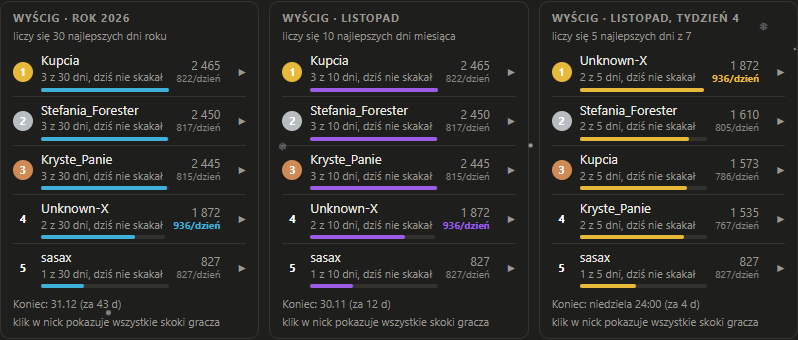
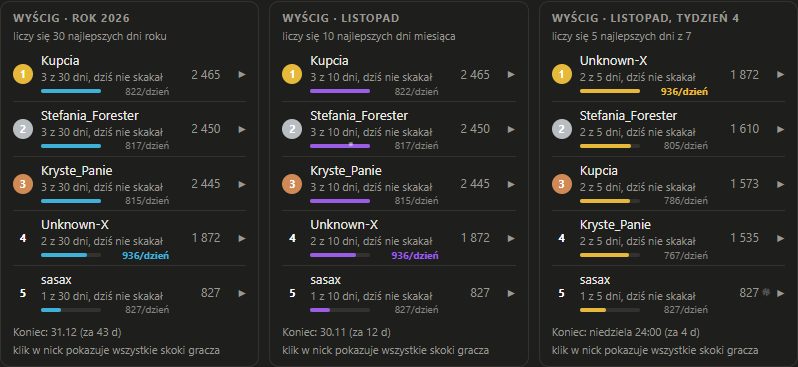
zasady i STAN: srednia na koncu paska, prod 14.9

diff --git a/docs/zasady_d2jsp.md b/docs/zasady_d2jsp.md
@@ -24,7 +24,7 @@ Jedyne miejsce tych ustaleń (14.11.2026). Plan wykonania: `docs/plan_d2jsp.md`.
 - Punkty skoku jak liczy gra (jak w prawdziwych skokach: 60 za skok na K, od K145 120, metry za K razy przelicznik, noty sędziów). Mamuty dają więcej punktów (ok. 1,5 raza) i tak zostaje (decyzja Mateusza; odrzucone: punkty Pucharu za miejsca, procent najlepszego wyniku, stałe przeliczniki).
 - Na skoczni liczą się 2 najlepsze skoki z 10, dodane (jak dwie serie). Wynik dnia = suma z 3 skoczni.
 - Tydzień: suma 5 najlepszych dni gracza. Miesiąc: suma 20 najlepszych dni. Rok (Mateusz 14.11): suma 200 najlepszych dni (od 14.11 liczony na serwerze z dni wszystkich miesięcy roku). Wszystkie trzy tabele rosną na bieżąco (po 3 dniach są zliczone 3 dni). Wyjątek startu gry (Mateusz 16.11): listopad 2026 (16 dni gry) liczy 10 najlepszych dni, rok 2026 (47 dni gry) liczy 30; tydzień 46 (15.11, jeden dzień) bez mistrza tygodnia, punkty zostają.
-- Średnia na dzień w wyścigach (Mateusz 18.11, szkic `proto/srednia-dnia`, „A z wyróżnieniem”): pod sumą mały napis „936/dzień”, liczony tylko z dni, które się liczą (suma podzielona przez mniejsze z: dni gracza, dni liczone w wyścigu). Najwyższa średnia w wyścigu pogrubiona w kolorze wyścigu, przy remisie każda. Kolejność zostaje według sumy (Mateusz 18.11 przyjął: przy kolejności według średniej opłacałoby się przestać grać po jednym dobrym dniu). W kartach mistrzów bez średniej. Na stronie głównej od 14.8.
+- Średnia na dzień w wyścigach (Mateusz 18.11, szkic `proto/srednia-dnia`, „A z wyróżnieniem”): mały napis „936/dzień” na końcu paska, pod sumą (od 14.9; wcześniej w kolumnie sumy, ucinał szarą linijkę przy średniej od 1000), liczony tylko z dni, które się liczą (suma podzielona przez mniejsze z: dni gracza, dni liczone w wyścigu). Najwyższa średnia w wyścigu pogrubiona w kolorze wyścigu, przy remisie każda. Kolejność zostaje według sumy (Mateusz 18.11 przyjął: przy kolejności według średniej opłacałoby się przestać grać po jednym dobrym dniu). W kartach mistrzów bez średniej. Na stronie głównej od 14.8.
 - Puchary Telemarka (Mateusz 14.11, szkic `proto/puchary-telemark`): skrzyżowane narty zamiast kielicha, kolory i znaki jak puchary za posty (tydzień złote, miesiąc fioletowe z gwiazdą, rok niebieskie z koroną). Jak przy postach: tytuł mistrza miesiąca Telemarka zamienia jedne złote narty tygodnia w płonące, z których sypią się iskry. Bez błękitnej gwiazdki i fioletowego nicku (te zostają tylko za posty, żeby było widać, za co są). Narty przy nicku stoją w rankingu postów za pucharami, nie w listach Telemarka (Mateusz 14.11). Legenda na dole strony dostaje narty. (na stronie testowej od 21.1, 14.11; Mateusz 14.11: korona roku na tarczy w skrzyżowaniu nart, płomień jak przy kielichu)
 - Na stronie (zastąpione 14.11 przez makietę C, punkt „Strona licznika”): bieżący tydzień, bieżący miesiąc, poprzedni tydzień i poprzedni miesiąc ze zwycięzcą. Zwycięzca tygodnia i miesiąca dostaje puchar (pokazać tak, jak Lotnik pokazuje swoje; sprawdzone 14.11: Lotnik pucharów nie pokazuje, więc użyte puchary strony licznika, plan pkt 8, do oceny Mateusza). Osobnej tabeli dnia na stronie nie ma.
 - W grze (Mateusz 14.11): mała tabela na górze, na środku ekranu skoczni dnia, domyślnie „Dzisiaj” (punkty z każdej skoczni, skoki z 30, wynik dnia; szkic proto/tabela-dnia, wersja A), przełącznik na tydzień; 5 najlepszych i gracz pod spodem; na wąskim ekranie bez kolumn skoczni; ekran dnia ma się mieścić w oknie bez przewijania (Mateusz 14.11: „wszyscy grają jak już na 1920, minimum”, więc sprawdzam w oknie przeglądarki 1920×950; dawne 1650×800 zastąpione 14.11). Przy nickach awatary z forum, wszędzie w tabelach (jak w rankingach strony), bez awatara pierwsza litera.

diff --git a/STAN.md b/STAN.md
@@ -14,7 +14,7 @@ Ustalenia z Mateuszem: `docs/zasady_d2jsp.md`. Plan, przebieg skoku dnia, model 
 - Znane: po skoku obraz mówi „jeszcze raz”, klik wraca do listy skoczni (jak w zawodach autora); dzisiejsze ▶ działa od jutra (sprawdzenie dziś: `telemark/index.html?ogladaj=<gid>&test`).
 
 ## Następny krok
-18.11 (Mateusz): średnia na dzień pod sumą w wyścigach, najlepsza w kolorze wyścigu, na prod 14.8 (sprawdzone `node proto/srednia-dnia/sprawdz.mjs prod`, zasady w `docs/zasady_d2jsp.md`). Znane: przy średniej od 1000 w górę szara linijka pod nickiem ucina się („dziś nie ska…”); dziś najwyższa 936. Strona testowa pokazuje wyniki tylko z hasłem testerów, bez hasła sprawdzać `?tmdemo`.
+18.11 (Mateusz): średnia na dzień pod sumą w wyścigach, najlepsza w kolorze wyścigu, na prod 14.9 (średnia na końcu paska, paski równe; sprawdzenia `node proto/srednia-dnia/sprawdz.mjs prod`, `node proto/srednia-dnia/miesci.mjs [adres]`; zasady w `docs/zasady_d2jsp.md`). Znane: napis „200 z 200 dni, dziś nie skakał” (koniec roku liczącego 200 dni, najwcześniej 2027) nie zmieści się o 12 px. Strona testowa pokazuje wyniki tylko z hasłem testerów, bez hasła sprawdzać `?tmdemo`.
 16.11 (Mateusz): wyścigi top 5, pod nickiem „X z 5 dni, dziś N/30” (szkic `proto/wyscig-info`, wersja A, „7 z 5” jego decyzja), zdanie o kliku w nick; na teście 21.9. Na prod (14.6) i puchar tygodnia 46 zdjęty (sprawdzone 16.11). Tabela w grze pobierana co minutę, gdy ekran dnia stoi (sprawdzone `proto/wyscig-info/odswiezanie.mjs`). Listopad 2026 liczy 10 dni, rok 2026 30 (Mateusz 16.11, `docs/zasady_d2jsp.md`): serwer lotnik d06da4b na lotnik-test, strona test 22.2; czeka na wklejenie przez Mateusza: `sh serwer/deploy.sh prod` w lotniku, potem publikacja prod strony.
 TERAZ (15.11): Telemark na stronie głównej, czeka na pierwsze prawdziwe skoki i ocenę Mateusza. Pierwszy tydzień (46.) kończy się 15.11 o północy, więc mistrza tygodnia da tylko dzisiejszy dzień. Oceny z 14.11 niżej (opisane wersjami strony testowej) dotyczą teraz tego samego, co jest na stronie głównej; na głównej nie ma już wykresu „Posty co godzinę” w zakresie do 2 dni (decyzja z makiety C).
 0. Czeka na ocenę Mateusza (14.11): nowy ekran dnia z rekordem dnia i rekordem skoczni na teście (20.5-test), wykonany wg `docs/plan_ekran_dnia.md`, rozliczenie tam. Do potwierdzenia: skok z upadkiem nie jest rekordem. Pomiar mieszczenia się: `node scripts/d2jsp-ekran-dnia.mjs <folder> [adres] [bez-skoku]` (skok dnia zużywa skok konta próbnego).
